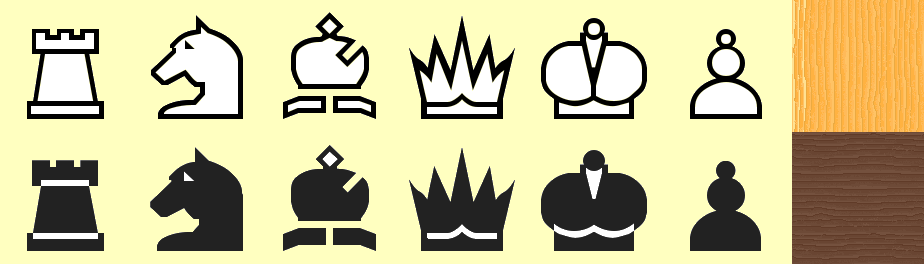
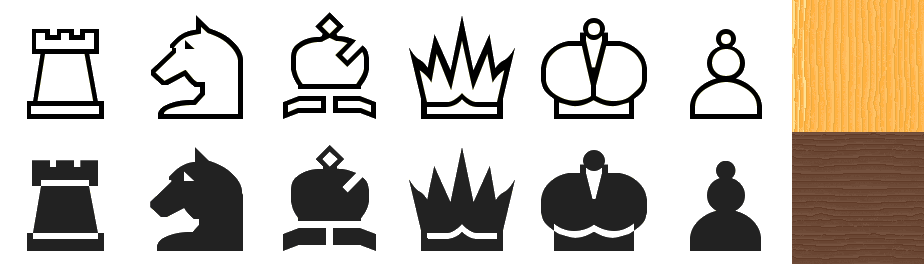
setMask() commented out, theme files edited

diff --git a/src/gui/boardtheme.cpp b/src/gui/boardtheme.cpp
@@ -111,7 +111,13 @@ bool BoardTheme::load(const QString& themeFile)
         maskImage.setPixel(i, j, opaque);
   QBitmap mask;
   mask.convertFromImage(maskImage);
-  big.setMask(mask);
+
+
+  /* 30/11/2005: setMask() commented out /Ejner
+   * by Qt4 it worked unpredictably and with different results on different
+   * platforms. Instead the eboard themes were edited, clearing the background
+   * behind the pieces (Gimp: Select by color + Edit -> clear).*/
+  //big.setMask(mask);
 
   /* Cut big theme bitmap into separate pieces */
   for (int i = 0; i<ConstPieceTypes; i++)
